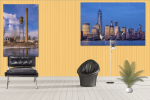
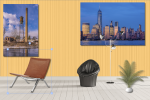
implemented flip for selectable objects

diff --git a/public/app/assets/js/app.js b/public/app/assets/js/app.js
@@ -246,7 +246,7 @@ $(document).ready(function () {
   }
 
   function addOtherObjects(data) {
-    $('img[data-obj-id="' + data.object_id + '"]').trigger("click", [data.height, data.width, data.position_top, data.position_left]);
+    $('img[data-obj-id="' + data.object_id + '"]').trigger("click", [data.height, data.width, data.position_top, data.position_left, data.flipped]);
 
   }
 
@@ -645,11 +645,12 @@ $(document).ready(function () {
 
   });
 
-  $(document).on("click", ".img-art, .img-furn", function (e, h, w, t, l) {
+  $(document).on("click", ".img-art, .img-furn", function (e, h, w, t, l, f) {
     var height;
     var width;
     var top;
     var left;
+    var flipped;
 
     if (h) height = h / $canvasHeightRatio;
     else height = $(this).data("height");
@@ -662,6 +663,12 @@ $(document).ready(function () {
 
     if (l) left = l / $canvasWidthRatio;
     else left = $(this).data("x");
+
+    if (f) {
+      if (f == 0) flipped = false;
+      else flipped = true;
+    } 
+    else flipped = false;
 
     var layerName = $(this).data("name") + "_" + $(this).data("copy");
 
@@ -678,6 +685,7 @@ $(document).ready(function () {
         type: $(_this).data("type"),
         objid: $(_this).data("obj-id")
       },
+      flipX: flipped,
       opacity: 1,
       centeredScaling: false,
       lockUniScaling: true,
@@ -809,10 +817,13 @@ $(document).ready(function () {
 
   $('#btn-flip').on('click', function () {
     var activeObject = fabCanvas.getActiveObject()
-    activeObject.flipX = !(activeObject.flipX);
+    if (activeObject) activeObject.flipX = !(activeObject.flipX);
+    //Deselect object
+    // fabCanvas.discardActiveObject();
+
+    //***to process a group of selected objects */
     // var activeGroup = fabCanvas.getActiveGroup();
     // var objectsInGroup = activeGroup.getObjects();
-    fabCanvas.discardActiveObject();
     // objectsInGroup.forEach(function(object) {
     //   fabCanvas.flipX(object);
     // });
@@ -941,6 +952,7 @@ $(document).ready(function () {
       layer_type: "",
       object_type: "",
       object_id: 0,
+      flipped: false,
       showroom_id: 0
     };
 
@@ -966,6 +978,7 @@ $(document).ready(function () {
         parmLayer.object_id = l[i].data.objid;
         parmLayer.color = "";
       }
+      parmLayer.flipped = l[i].flipX
       parmLayer.showroom_id = showroomId;
       console.log(parmLayer);
       ajaxSaveLayer(parmLayer);

diff --git a/controllers/showroomsController.js b/controllers/showroomsController.js
@@ -89,14 +89,20 @@ router.post("/create_layer", function (req, res) {
 		layer_id: 0
 	};
 
+	var flipped;
+
+	if (req.body.flipped == "false") flipped = 0;
+	else flipped = 1;
+
 	var cols = ['layer_index', 'height', 'width', 'position_top',
 				'position_left', 'color', 'opacity', 'layer_type', 
-				'object_id', 'showroom_id'];
+				'object_id', 'flipped', 'showroom_id'];
 	var vals = [parseInt(req.body.layer_index), 
 				parseInt(req.body.height), parseInt(req.body.width),
 				parseInt(req.body.position_top), parseInt(req.body.position_left),
 				req.body.color, parseInt(req.body.opacity), req.body.object_type,
-				parseInt(req.body.object_id), parseInt(req.body.showroom_id)];
+				parseInt(req.body.object_id), flipped, 
+				parseInt(req.body.showroom_id)];
 
 	layer.create(cols, vals, function (response) {
 		data.layer_id = response.insertId; //only way to get id of an insert for the mysql npm package
